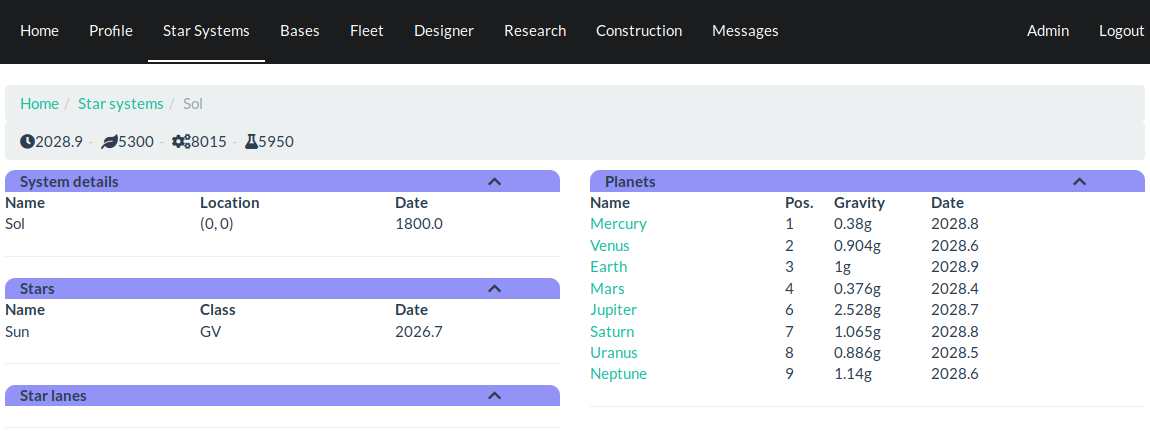
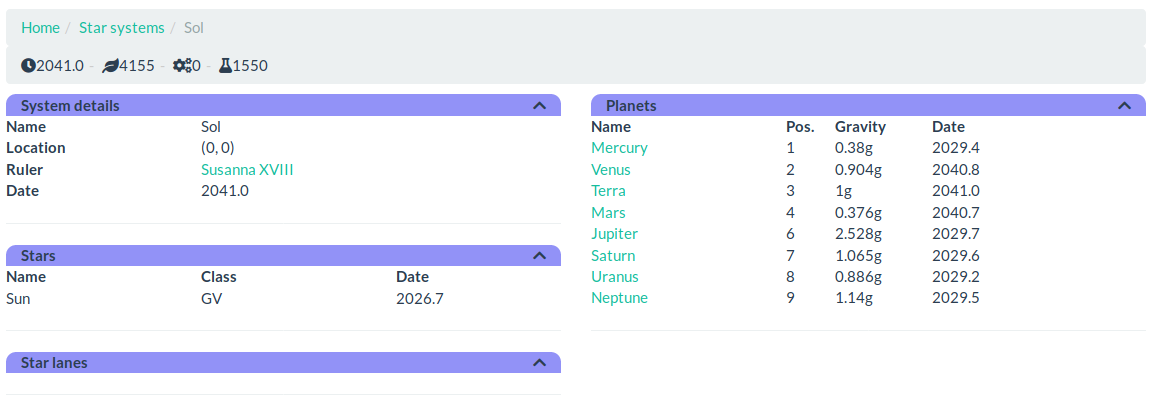
Add ruler information to star system

diff --git a/CHANGELOG.md b/CHANGELOG.md
@@ -11,8 +11,9 @@ and this project adheres to [Semantic Versioning](https://semver.org/spec/v2.0.0
 - `PersonFactionIntel` to represent level of person intel
 - Players have avatar that they're playing as
 ### Changed
-- planet can have ruler (`ruler_id INTEGER NULL REFERENCES person`)
+- planet can have ruler
 - planet report JSON result has all keys starting with uppercase
+- star system can have ruler
 - Database table `time` replaced with `simulation`
 - `StarDate` used instead of `Time` everywhere
 - Level of component changed from `Int` to `ComponentLevel`
